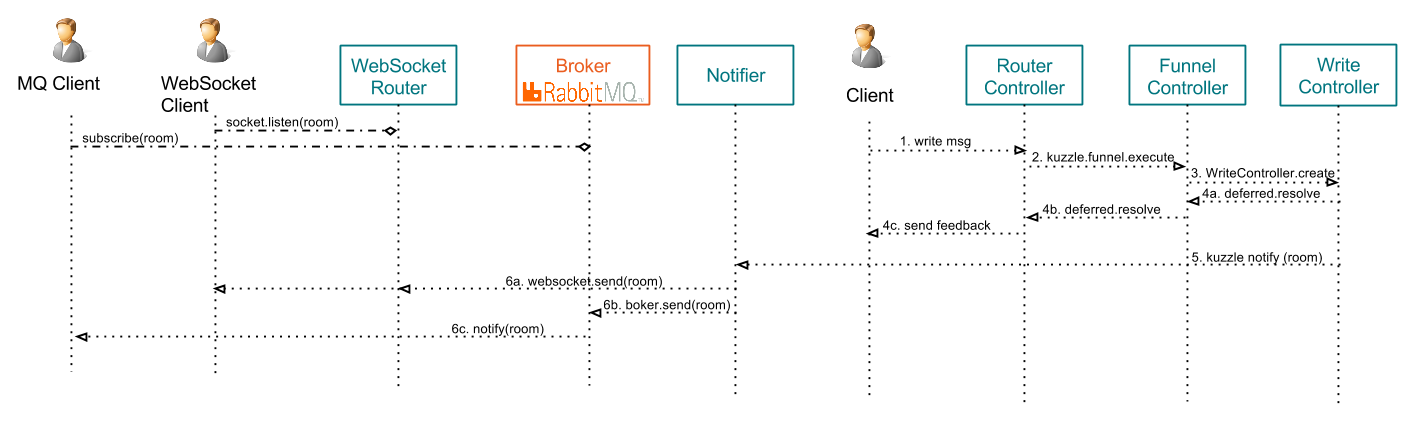
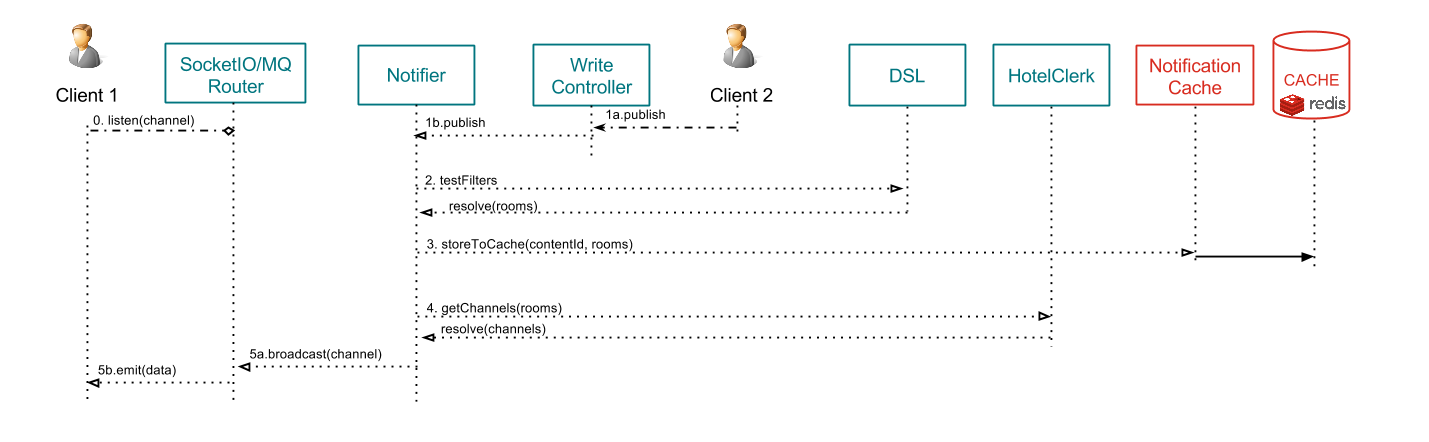
Refactor architecture documentation : update Pub/Sub scenario documentation + schemas

diff --git a/docs/request_scenarios/pubsub.md b/docs/request_scenarios/pubsub.md
@@ -3,14 +3,14 @@
 This page explains what happens when clients exchange data with Kuzzle, using the [Publish/Subscribe pattern](https://en.wikipedia.org/wiki/Publish%E2%80%93subscribe_pattern).
 
 Kuzzle is able to manage two different types of data:
-* persistent data
-* volatile/realtime data
-
-The client decide if a data is persistent or volatile using the "_persist_" metadata (true/false).
+* persistent data => using the "_create_", "_createOrUpdate_", or "_delete_" actions.
+* volatile/realtime data => using the "_publish_" action.
 
 Kuzzle handles data differently, depending if it's persistent or not.
 
-This page describes the process for **non persistent** data. If you wish to learn about how Kuzzle handles persistent data, please read [Writing persistent data to Kuzzle](write.md)
+This page describes the process for **non persistent** data, as well as real-time notification about persisted data.
+
+If you wish to learn about how Kuzzle stores persistent data, please read [Writing persistent data to Kuzzle](write.md)
 
 Remember the [Architecture overview](../architecture.md) and focus on the components involved by reading actions:
 ![pubsub_overview](../images/kuzzle_pubsub_scenario_overview.png)
@@ -21,16 +21,20 @@ The following diagram shows how two different clients, a Websocket and a MQ one,
 
 ![pubsub_scenario_details1](../images/kuzzle_pubsub_scenario_details1.png)
 
-\#1a. The client application opens a Websocket connection and emit a "subscribe" event with some filters.
-For instance, to be notified about new messages posted to the collection "users", containing a field "hobby" equals to "computer":
+\#1. The client application opens a Websocket or a MQ connection and emit a "subscribe" event with some filters.
+(see [API Documentation](http://kuzzleio.github.io/kuzzle-api-documentation/#on))
+
+For instance, to be notified about all contents posted to the collection "users", containing a field "hobby" equals to "computer":
 ```json
 {
   "requestId": "ed4faaff-253a-464f-a6b3-387af9d8483d",
-  "action": "on",
+  "index": "mainindex",
   "collection": "users",
-  "filter": {
+  "action": "on",
+  "body": {
     "term": {"hobby": "computer" }
-  }
+  },
+  "state": "all"
 }
 ```
 
@@ -40,7 +44,7 @@ For instance, to be notified about new messages posted to the collection "users"
 \#1b. The client then listens to the ```<requestId>``` event on the socket.
 Kuzzle will get back to him with a corresponding Room ID using this event.
 
-Sample Javascript code :
+Sample Javascript code, using Websocket:
 
 ```javascript
   this.socket.once("ed4faaff-253a-464f-a6b3-387af9d8483d", function(response) {
@@ -49,13 +53,14 @@ Sample Javascript code :
 ```
 
 
-\#2. The ```Websocket router``` interprets the input request and transfer the subscription message to the ```Funnel Controller```.
+\#2. The ```Router Controller``` interprets the input request and transfer the subscription message to the ```Funnel Controller```.
 
 Sample message:
 ```json
 {
-  "controller": "subscribe",
+  "index": "mainindex",
   "collection": "users",
+  "controller": "subscribe",
   "action": "on",
   "filter": {
     "term": {"hobby": "computer" }
@@ -63,13 +68,17 @@ Sample message:
 }
 ```
 
-\#3. The ```Funnel Controller``` validates the message and transfer it to the ```Subscribe Controller```
+\#3. The ```Funnel Controller``` validates the message and transfer it to the ```Subscribe Controller```.
 
-\#4. The ```Subscribe Controller``` calculates the pub/sub room related to this filter, adds an internal reference to the client, and returns the Room ID.
+\#4. The ```Subscribe Controller``` calls the ```HotelClerk``` internal component to create the subscription.
 
-\#5. Callback functions are triggered to transmit the response message back to the ```Websocket Router```
+\#5. The ```HotelClerk``` calls the ```DSL``` component to get a formated filter related to the subscription (see [DSL Readme for more details](../../lib/api/dsl/README.md)).
 
-\#6. The Websocket Router emits a ```<requestId>``` event to the client, containing the subscribed room Id.
+\#6. The ```HotelClerk``` create a channel related to the filters and give it back to the ```Subscribe Controller```.
+
+\#7. The channel is send back to the Websocket (or MQ) Router through the internal components.
+
+\#8. The Websocket (or MQ) Router emits a ```<requestId>``` event to the client, containing the subscribed channel ID.
 
 Sample response content:
 
@@ -77,57 +86,58 @@ Sample response content:
 {
   "status": 200,
   "error": null,
-  "result": "891b0d98-7a2c-4c60-9edd-d3444ffe4a8e"
-}
-```
-
-\#7. The client now listens to this ```roomId``` events to be notified about new messages corresponding to his subscription filters.
-
-\#8. => \#15. The process follows roughly the same pattern for a MQ client, with small tweaks depending of the MQ protocol used (AMQP, MQTT or STOMP).
-
-## 2nd step : notify about content changes to subscribing clients
-The following diagram shows how Kuzzle handles a new message and how subscribed clients are notified:
-
-
-![pubsub_scenario_details2](../images/kuzzle_pubsub_scenario_details2.png)
-
-\#1. A client sends a new content to Kuzzle, either through a HTTP request, a Websocket connection or a MQ client (see [Reading scenarios](README.md#Reading-content-from-Kuzzle))
-
-\#2. The router handles the input request and transmit the message to the ```Funnel Controller```.
-
-Sample message: (**note that _persist = false_**)
-
-```json
-{
-  "controller": "write",
+  "index": "mainindex",
   "collection": "users",
-  "action": "create",
-  "persist": false,
-  "body": {
-      "firstName": "Grace",
-      "lastName": "Hopper",
-      "age": 85,
-      "location": {
-        "lat": 32.692742,
-        "lon": -97.114127
-      },
-      "city": "NYC",
-      "hobby": "computer"
+  "controller": "subscribe",
+  "action": "on",
+  "state": "all",
+  "requestId": "ed4faaff-253a-464f-a6b3-387af9d8483d",
+  "result": {
+    "roomId": "78c5b0ba-fead-4535-945c-8d64a7927459",
+    "channel": "c5cd8bdc-06a4-4d6e-bae3-61f1a8ac2982"
   }
 }
 ```
 
-\#3. The ```Funnel Controller``` validates the message and forward it to the ```Write Controller```
-
-\#4. The ```Write Controller``` sends a feedback to the client who emitted the message.
-
-\#5. The ```Write Controller``` calculates the rooms whose filters match this new message, and calls the ```Notifier``` core component.
+\#8. The client now listens to this ```channel``` events to be notified about new messages corresponding to his subscription filters.
 
 
-\#6. The ```Notifier``` component notifies the subscribing clients, either directly through Websocket, and/or via the MQ Broker.
+## 2nd step : notify about real-time actions
+The following diagram shows how Kuzzle handles a new message and how subscribed clients are notified:
 
+![pubsub_scenario_details2](../images/kuzzle_pubsub_scenario_details2.png)
+
+\#1. A new content is published to the ```Notifier``` component.
+
+The "_publish_" method can be triggered:
+* either direclty by the ```Write Controller``` for non persistent data (using the [publish](http://kuzzleio.github.io/kuzzle-api-documentation/#publish) action).
+* or by by the ```Plugins Manager``` when a 'data:create' event is triggered, to notify users in real-time before the data are sent to the storage Engine.
+
+\#2. The ```Notifier``` calls the ```DSL``` component to test registered filters that match the content, and get related rooms.
+
+\#3. The ```Notifier``` uses the ```Notification Cache``` engine to store the mapping content/rooms into cache.
+
+\#4. The ```Notifier``` calls the ```HotelClerk``` to get the channels related to the rooms.
+
+\#5. The ```Notifier``` broadcasts the message to each related channel to the Websocket (or MQ) router.
+
+\#6. Finally, the router send the message to the clients who subscribed to it.
+
+## 3rd step : notify about persisted data
+
+![pubsub_scenario_details2](../images/kuzzle_pubsub_scenario_details3.png)
+
+\#1. The ```Notifier``` component is notified about a new action by the ```Internal Broker``` (see [step \#11. in write scenario](write.md)).
+
+\#2. The ```Notifier``` calls the ```Notification Cache``` to get the rooms related to the content.
+
+\#3. The ```Notifier``` calls the ```HotelClerk``` to get the channels related to the rooms.
+
+\#4. The ```Notifier``` broadcasts the message to each related channel to the Websocket (or MQ) router.
+
+\#5. Finally, the router send the message to the clients who subscribed to it.
 
 ## Related pages
 
 * [Architecture overview](../architecture.md)
-* [API Specifications](../README.md#api-specifications)
+* [API Documentation](http://kuzzleio.github.io/kuzzle-api-documentation)

diff --git a/lib/api/dsl/README.md b/lib/api/dsl/README.md
@@ -1,6 +1,6 @@
 # What is Kuzzle's DSL?
 
-This module converts our API Domain Specific Language in internal filtering functions. It is used by the hotelClerkController.
+This module converts our API Domain Specific Language in internal filtering functions. It is used by the HotelClerk component.
 
 
 The Kuzzle's DSL use the [Elasticsearch filter DSL](https://www.elastic.co/guide/en/elasticsearch/reference/current/query-dsl-filters.html).
@@ -51,7 +51,7 @@ A complete subscription message can for instance have the following form:
 }
 ```
 
-Eventually, we want to store this subscription in the hotelClerkController rooms collection in the following form:
+Eventually, we want to store this subscription in the HotelClerk rooms collection in the following form:
 
 ```json
 rooms = {
